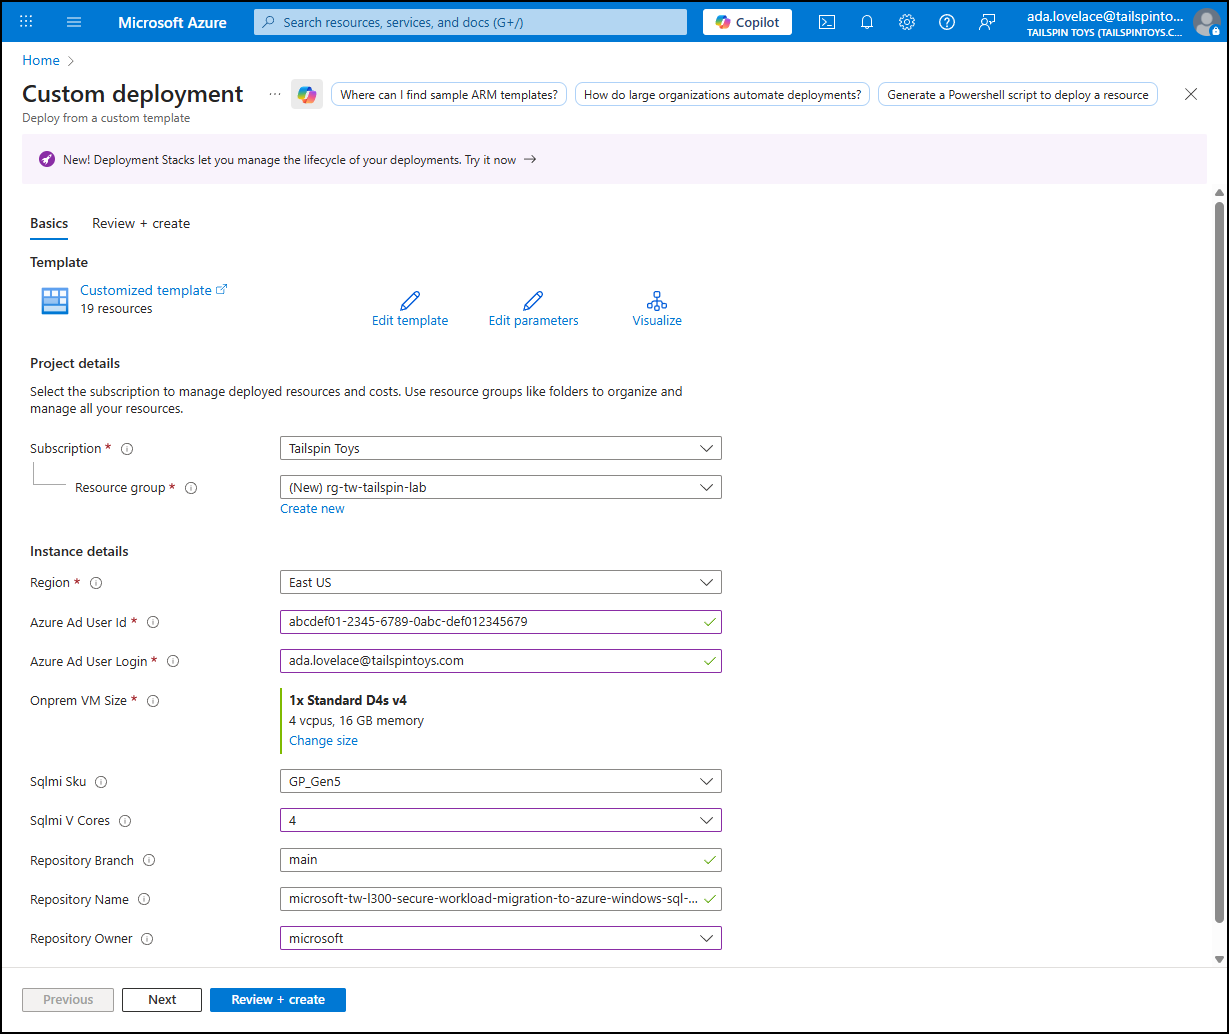
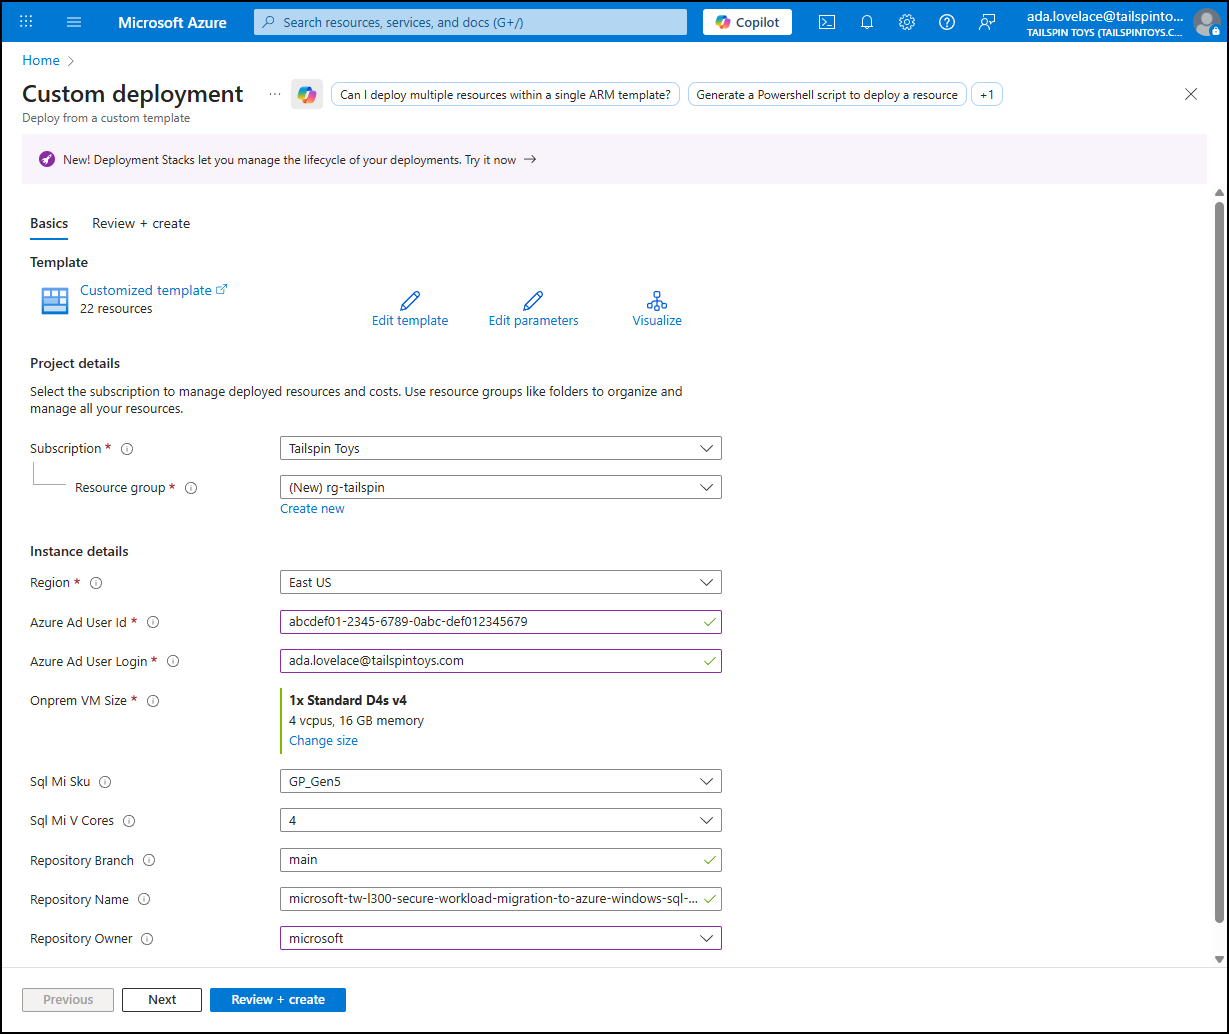
Setup updates

diff --git a/docs/00_lab_setup/00_02.md b/docs/00_lab_setup/00_02.md
@@ -79,7 +79,7 @@ The key activities are:
 6. On the **Custom deployment** page, enter values for the required ARM template parameters.
 
    - **Subscription**: Ensure the correct Azure Subscription is selected.
-   - **Resource group**: Select create new and enter `rg-tw-tailspin-lab`.
+   - **Resource group**: Select create new and enter a name, such as `rg-tailspin`.
    - **Region**: Choose an Azure region where you have available quota to deploy the needed resources.
    - **Azure Ad User Id**: Paste the `id` value from the Cloud Shell.
    - **Azure Ad User Login**: Paste the `upn` value from the Cloud Shell.
